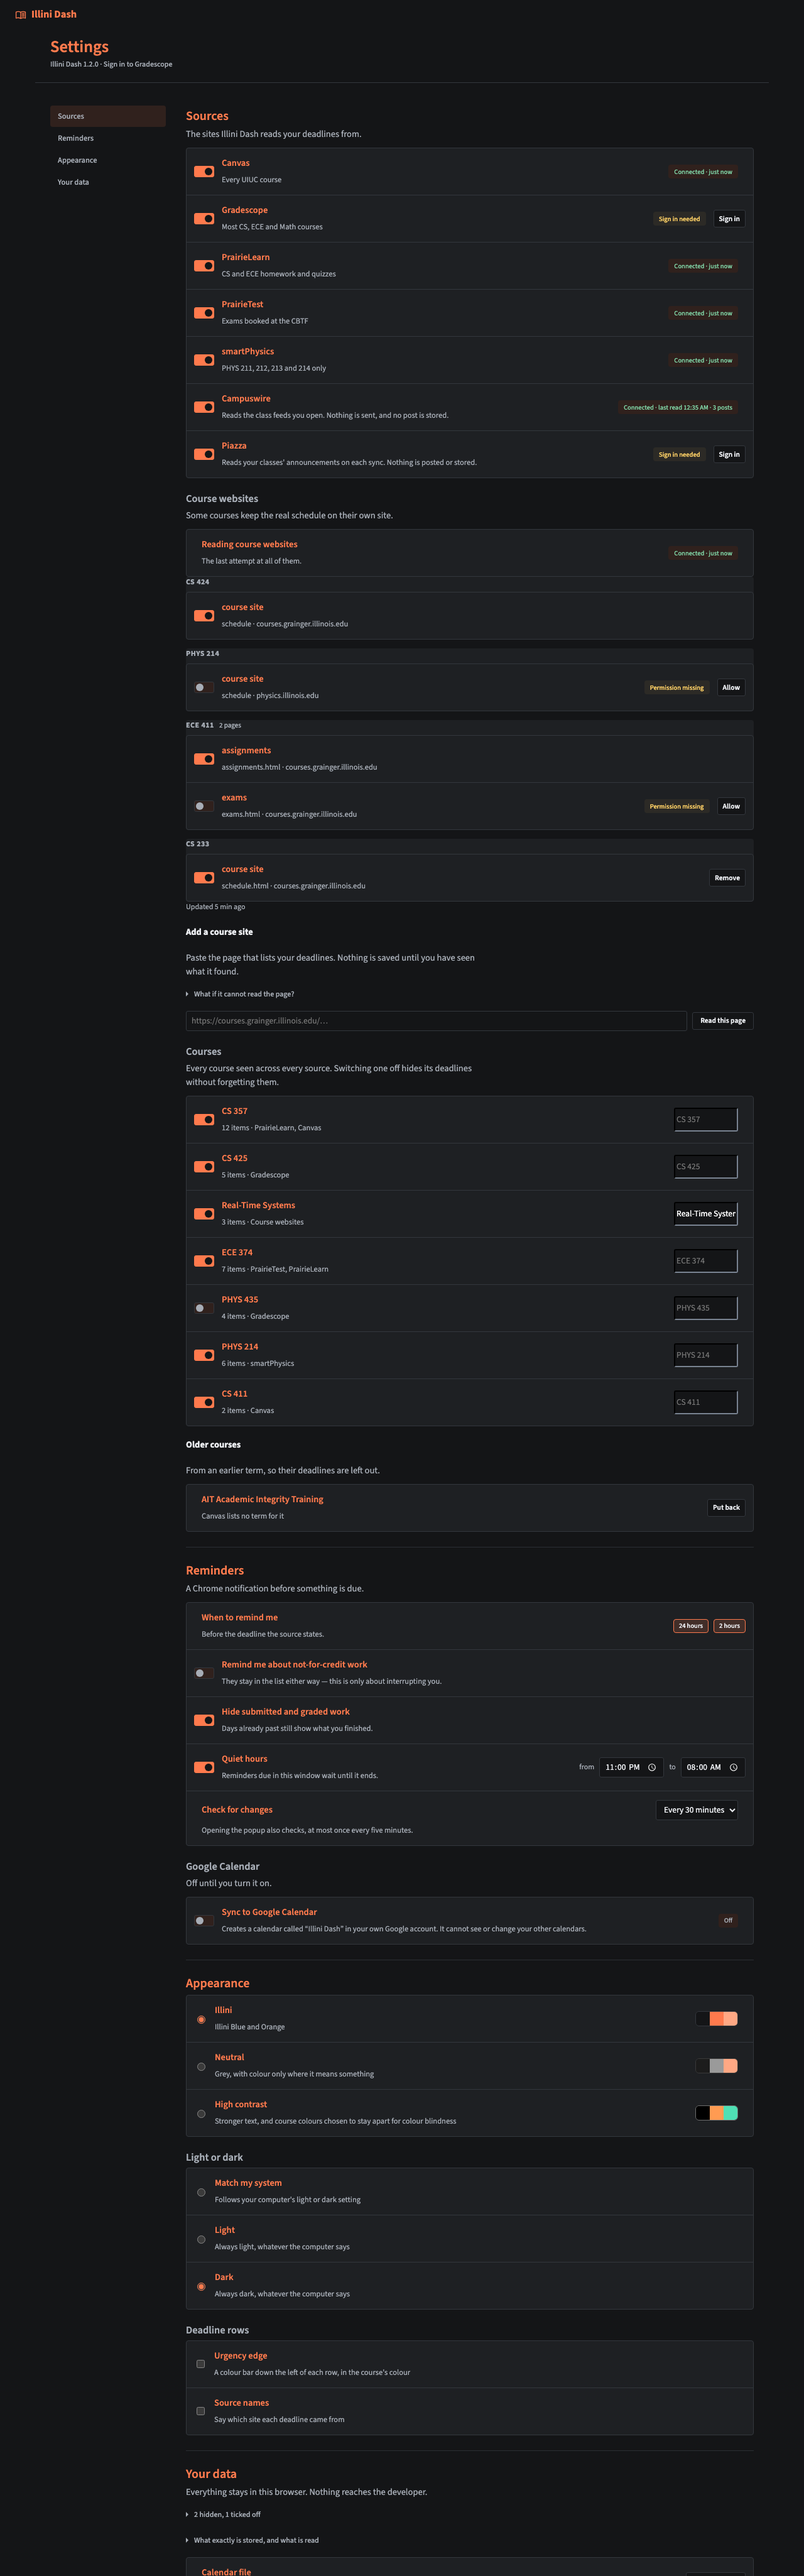
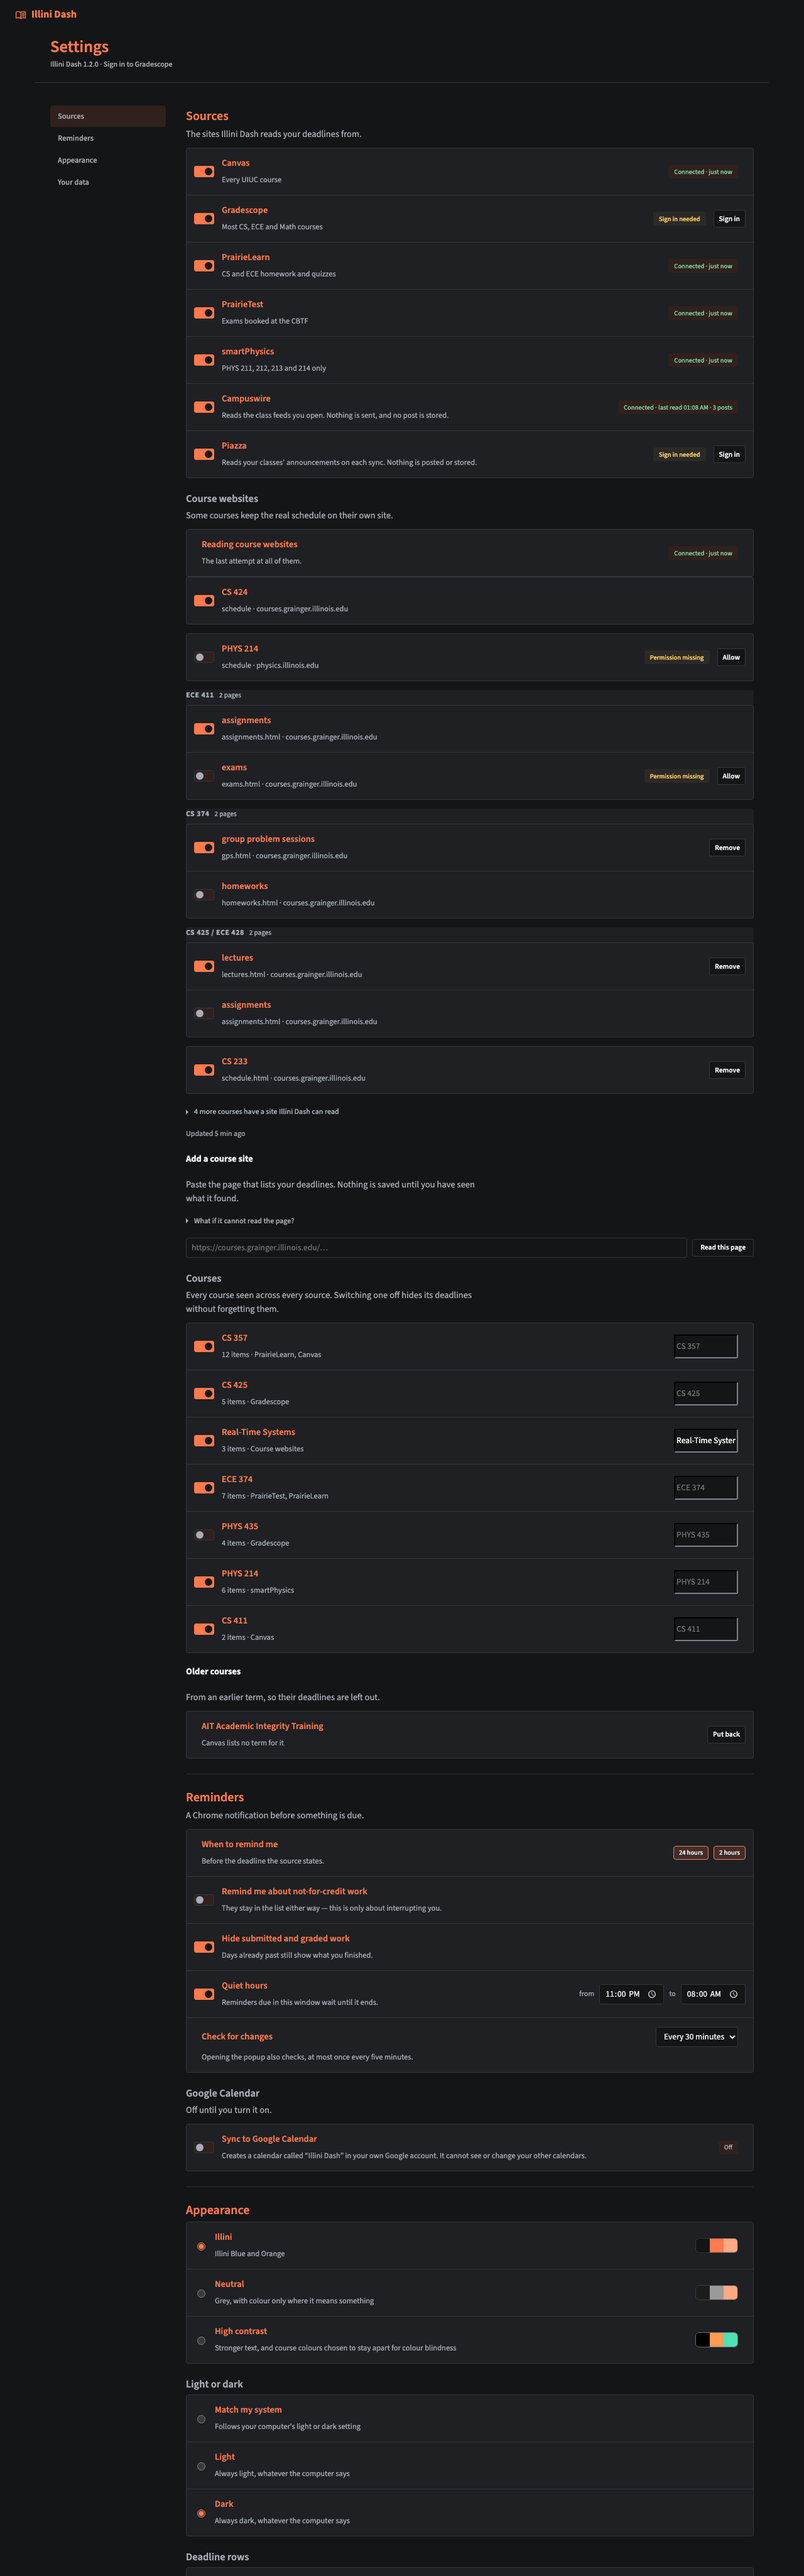
The harness can show every way this list went wrong
`scripts/preview-data.ts` had no course whose pages differ in standing and no
course spelled two ways, which are the two faults the grouping change is about —
so the preview could not have shown either one before or after. A fixture that
cannot reach a case cannot verify it.

It now carries CS 374 with a page Sushi added and a published one switched off,
CS 425 as a local `CS425` page beside the registry's cross-listed
`CS425/ECE428`, and MATH 241 and a two-page CS 446 in the catalogue, so the
disclosure has three departments to group rather than one — with everything
under ECE, a page that ignored the department entirely would have looked right.

`docs/ux/after/options-sites-by-course-dark.png` is the section with the
disclosure open, dark, which `npm run shots` cannot reach: its options shots
capture the page as it loads, and the catalogue is closed then.

diff --git a/scripts/preview-data.ts b/scripts/preview-data.ts
@@ -368,6 +368,59 @@ const adapters: Record<string, unknown>[] = [
     url: "https://courses.grainger.illinois.edu/ece391/fa2026/schedule.html",
     hostPattern: "https://courses.grainger.illinois.edu/*",
     enabled: false, granted: false, currentTerm: true },
+  /*
+   * A course whose two pages differ in standing: one Sushi added (`local`) and
+   * one published and switched off. The partition used to run over adapters, so
+   * this course was drawn twice — once under his own courses and once inside
+   * the "more courses" disclosure. Without both pages here the harness cannot
+   * show that it no longer is.
+   */
+  { id: "cs374-fa2026-local", label: "CS 374 group problem sessions", courseCode: "CS374",
+    term: "fa2026",
+    url: "https://courses.grainger.illinois.edu/cs374/fa2026/gps.html",
+    hostPattern: "https://courses.grainger.illinois.edu/*",
+    rows: "table tr", title: "td:nth-child(1)", due: "td:nth-child(2)",
+    dateFormat: "M/D/YYYY", timezone: "America/Chicago", minExtensionVersion: "1.0.0",
+    enabled: true, granted: true, local: true, currentTerm: true },
+  { id: "cs374-fa26-homeworks", label: "CS 374 homeworks", courseCode: "CS374",
+    url: "https://courses.grainger.illinois.edu/cs374/fa2026/homeworks.html",
+    hostPattern: "https://courses.grainger.illinois.edu/*",
+    enabled: false, granted: false, currentTerm: true },
+  /*
+   * One course spelled two ways: the registry cross-lists it, the page Sushi
+   * added names one code. Grouped on the string these drew as "CS 425" and
+   * "CS425/ECE428", two headings, the second unformatted.
+   */
+  { id: "cs425-fa2026-local", label: "CS 425 lectures", courseCode: "CS425",
+    term: "fa2026",
+    url: "https://courses.grainger.illinois.edu/cs425/fa2026/lectures.html",
+    hostPattern: "https://courses.grainger.illinois.edu/*",
+    rows: "table tr", title: "td:nth-child(1)", due: "td:nth-child(2)",
+    dateFormat: "M/D/YYYY", timezone: "America/Chicago", minExtensionVersion: "1.0.0",
+    enabled: true, granted: true, local: true, currentTerm: true },
+  { id: "cs425-fa26-assignments", label: "CS425/ECE428 assignments", courseCode: "CS425/ECE428",
+    url: "https://courses.grainger.illinois.edu/cs425/fa2026/assignments.html",
+    hostPattern: "https://courses.grainger.illinois.edu/*",
+    enabled: false, granted: false, currentTerm: true },
+  /*
+   * And three more courses in two further departments, so the disclosure's
+   * department grouping has something to group: with everything published under
+   * ECE, a page that ignored the department and drew one heading would look
+   * exactly like one that worked. CS 446 is two pages, so the catalogue also
+   * shows a multi-page course under a department heading.
+   */
+  { id: "math241-fa26", label: "MATH 241 course site", courseCode: "MATH241",
+    url: "https://math.illinois.edu/math241/fa2026/",
+    hostPattern: "https://math.illinois.edu/*",
+    enabled: false, granted: false, currentTerm: true },
+  { id: "cs446-fa26-assignments", label: "CS 446 assignments", courseCode: "CS446",
+    url: "https://courses.grainger.illinois.edu/cs446/fa2026/assignments.html",
+    hostPattern: "https://courses.grainger.illinois.edu/*",
+    enabled: false, granted: false, currentTerm: true },
+  { id: "cs446-fa26-exams", label: "CS 446 exams", courseCode: "CS446",
+    url: "https://courses.grainger.illinois.edu/cs446/fa2026/exams.html",
+    hostPattern: "https://courses.grainger.illinois.edu/*",
+    enabled: false, granted: false, currentTerm: true },
   // One the student added themselves, which is the only kind with a Remove
   // button. `local` is set by the worker and is not on the response type, so
   // without an entry carrying it here the button was unreachable in the harness.
